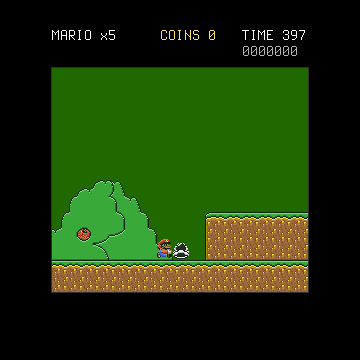
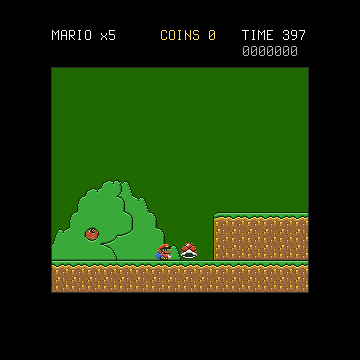
smw: platforms, physics refit on 11 scenarios, enemy palette fix, benchmark overlay
Claude-Session: https://claude.ai/code/session_01819Cst5YoYQmWbqZtMgsvj

Changed region(s): [[0.1222, 0.4889, 0.8556, 0.825]]

diff --git a/scripts/smw_physics_check.py b/scripts/smw_physics_check.py
@@ -1,23 +1,27 @@
 #!/usr/bin/env python3
-"""Scores the Lua movement against the emulator traces.
+"""Scores the Lua movement against the emulator traces, and fits its constants.
 
-    python3 scripts/smw_physics_check.py TRACE_DIR [--quiet]
+    python3 scripts/smw_physics_check.py TRACE_DIR [SCENARIO]          # the table (SCENARIO: side by side)
+    python3 scripts/smw_physics_check.py TRACE_DIR --fit NAME[,NAME]   # coordinate descent on Phys.NAME
 
 Builds a cartridge from carts/smw/src/physics.lua and tests/smw/trace_test.lua, runs it in
-bmhost (make build/host/bmhost-bin first) and prints, per script, the mean and worst error of
-x, y and the two speeds against the CSV files of scripts/smw_trace.py."""
-import csv, os, subprocess, sys, tempfile
+bmhost (make build/host/bmhost-bin first) and compares x, y and both speeds with the CSV
+files of scripts/smw_trace.py. The scenarios are in tests/smw/trace_scripts.json. A scenario
+is cut where the emulator run meets an enemy (LIMIT). --fit prints the constants it found."""
+import csv, json, os, subprocess, sys, tempfile
 ROOT = os.path.dirname(os.path.dirname(os.path.abspath(__file__)))
+LIMIT = {"runjump": 164, "airturn": 85}       # frames before Mario meets something the test does not have
 
 
-def main():
-    if len(sys.argv) < 2:
-        sys.exit(__doc__)
-    ref = sys.argv[1]
+def run_sim(overrides=None):
     tmp = tempfile.mkdtemp()
+    scripts = json.load(open(ROOT + "/tests/smw/trace_scripts.json"))
+    table = "local SCRIPTS = {\n" + "".join("  { %s, { %s } },\n" % (
+        json.dumps(n), ", ".join("{ %d, %s }" % (f, json.dumps(k)) for f, k in segs)) for n, segs in scripts.items()) + "}\n"
+    pre = "".join("Phys.%s = %r\n" % (k, v) for k, v in (overrides or {}).items())
     lua = os.path.join(tmp, "main.lua")
-    open(lua, "w").write(open(ROOT + "/carts/smw/src/physics.lua").read() + "\n" +
-                         open(ROOT + "/tests/smw/trace_test.lua").read())
+    open(lua, "w").write(open(ROOT + "/carts/smw/src/physics.lua").read() + "\n" + pre +
+                         open(ROOT + "/tests/smw/trace_test.lua").read().replace("--SCRIPTS--", table))
     cart = os.path.join(tmp, "t.bm")
     subprocess.run([sys.executable, ROOT + "/scripts/mkbm.py", "-o", cart, "--lua", lua, "--title", "t"],
                    check=True, capture_output=True)
@@ -27,8 +31,53 @@ def main():
         if "TRACE " in line:
             p = line[line.index("TRACE ") + 6:].split()
             got.setdefault(p[0], []).append([float(v) for v in p[2:6]] + [float(p[6])])
+    return got, list(scripts)
+
+
+def errors(got, ref, name):
+    rows = list(csv.DictReader(open("%s/trace_%s.csv" % (ref, name))))[:LIMIT.get(name, 10 ** 9)]
+    g = got.get(name, [])
+    return [[abs(g[i][0] - float(r["x"])), abs(g[i][1] - float(r["y"])), abs(g[i][2] - float(r["vx"])),
+             abs(g[i][3] - float(r["vy"])) if r["air"] != "0" else 0.0] for i, r in enumerate(rows) if i < len(g)]
+
+
+def loss(got, ref, names):
+    total = 0.0
+    for n in names:
+        e = errors(got, ref, n)
+        if e:
+            total += sum(0.5 * a[0] + a[1] + a[2] + a[3] for a in e) / len(e)
+    return total
+
+
+def main():
+    if len(sys.argv) < 2:
+        sys.exit(__doc__)
+    ref = sys.argv[1]
+    got, names = run_sim()
+    if "--fit" in sys.argv:
+        params = sys.argv[sys.argv.index("--fit") + 1].split(",")
+        src = open(ROOT + "/carts/smw/src/physics.lua").read()
+        cur = {}
+        for p in params:
+            line = [l for l in src.splitlines() if l.strip().startswith(p + " =")][0]
+            cur[p] = float(line.split("=")[1].split(",")[0])
+        best = loss(got, ref, names)
+        print("start", round(best, 3), cur)
+        for rnd in range(3):
+            step = 0.1 / (rnd + 1)
+            for p in params:
+                for f in (1 - step, 1 + step):
+                    trial = dict(cur)
+                    trial[p] = round(cur[p] * f, 3)
+                    l = loss(run_sim(trial)[0], ref, names)
+                    if l < best - 1e-6:
+                        best, cur = l, trial
+            print("round", rnd, round(best, 3), cur)
+        return
     show = sys.argv[2] if len(sys.argv) > 2 else None
-    for name in ("walk", "run", "jump", "runjump", "turn"):
+    tot = 0
+    for name in names:
         rows = list(csv.DictReader(open("%s/trace_%s.csv" % (ref, name))))
         g = got.get(name)
         if not g:
@@ -38,12 +87,12 @@ def main():
                 if i < len(g) and i % 6 == 0:
                     print("%3d %-4s x %4s/%7.1f  y %4s/%6.1f  vx %3s/%6.1f  vy %4s/%6.1f  pm %3s/%5.1f" % (
                         i, r["keys"], r["x"], g[i][0], r["y"], g[i][1], r["vx"], g[i][2], r["vy"], g[i][3], r["pmeter"], g[i][4]))
-        err = [[abs(g[i][0] - float(r["x"])), abs(g[i][1] - float(r["y"])), abs(g[i][2] - float(r["vx"])),
-                abs(g[i][3] - float(r["vy"])) if r["air"] != "0" else 0.0]
-               for i, r in enumerate(rows) if i < len(g)]
+        err = errors(got, ref, name)
         n = len(err)
+        tot += sum(0.5 * a[0] + a[1] + a[2] + a[3] for a in err) / n
         print("%-8s mean err x %.2f y %.2f vx %.2f vy %.2f | worst x %.1f y %.1f vx %.1f vy %.1f" % (
             (name,) + tuple(sum(e[j] for e in err) / n for j in range(4)) + tuple(max(e[j] for e in err) for j in range(4))))
+    print("loss", round(tot, 3))
 
 
 if __name__ == "__main__":

diff --git a/scripts/smw_solid.py b/scripts/smw_solid.py
@@ -1,0 +1,68 @@
+#!/usr/bin/env python3
+"""Finds which Map16 tiles of the first level are solid, by testing them in the emulator.
+
+    python3 scripts/smw_solid.py ROM.sfc OUTDIR
+
+For each Map16 number in the level it finds a cell with air above and one with air to its left,
+puts Mario there and watches: from above, does he stand on it (his Y stays)? from the left,
+does he stop (his X stays)? Writes solid.json {map16: {top, side, cells}} and prints a table.
+Tile 0x25 is the empty cell."""
+import json, os, sys
+sys.path.insert(0, os.path.dirname(os.path.abspath(__file__)))
+from smw_capture import *
+
+
+def main():
+    if len(sys.argv) < 3:
+        sys.exit(__doc__)
+    ex = sys.argv[2]
+    level = json.load(open(ex + "/level.json"))
+    g = Game(sys.argv[1])
+    g.to_first_level()
+    base = g.e.get_state()
+    H, W = len(level), len(level[0])
+    ids = sorted(k for k in {k for r in level for k in r} if k >= 0x100)
+    free = lambda t: t < 0x100                   # the tiles below 0x100 were tested: none is solid
+    res = {}
+    for k in ids:
+        out = {"top": None, "side": None, "bottom": None}
+        for cy in range(2, H - 3):
+            for cx in range(3, W - 3):
+                if level[cy][cx] != k:
+                    continue
+                if out["top"] is None and free(level[cy - 1][cx]) and free(level[cy - 2][cx]):
+                    g.e.set_state(base)
+                    y0 = cy * 16 - 32
+                    g.poke({0x94: (cx * 16) & 255, 0x95: (cx * 16) >> 8, 0x96: y0 & 255, 0x97: y0 >> 8, 0x7D: 0, 0x7B: 0, 0x72: 0})
+                    g.step(n=10)
+                    w = g.wram()
+                    y = w[0x96] | w[0x97] << 8
+                    out["top"] = abs(y - y0) <= 1
+                    out["top_cell"] = [cx, cy]
+                if out["side"] is None and free(level[cy][cx - 1]) and free(level[cy - 1][cx - 1]) and free(level[cy][cx - 2]):
+                    g.e.set_state(base)
+                    x0 = cx * 16 - 16
+                    g.poke({0x94: x0 & 255, 0x95: x0 >> 8, 0x96: (cy * 16 - 16) & 255, 0x97: (cy * 16 - 16) >> 8, 0x7D: 0, 0x7B: 0x20, 0x72: 0})
+                    g.step([RIGHT], 10)
+                    w = g.wram()
+                    x = w[0x94] | w[0x95] << 8
+                    out["side"] = x < cx * 16 - 10
+                    out["side_cell"] = [cx, cy]
+                if out["bottom"] is None and free(level[cy + 1][cx]) and free(level[cy + 2][cx]) and free(level[cy + 3][cx]):
+                    g.e.set_state(base)
+                    y0 = cy * 16 + 2                       # his head just under the tile, moving up
+                    g.poke({0x94: (cx * 16) & 255, 0x95: (cx * 16) >> 8, 0x96: y0 & 255, 0x97: y0 >> 8, 0x7D: 0xB0, 0x7B: 0, 0x72: 0x0B})
+                    g.step(n=8)
+                    w = g.wram()
+                    y = w[0x96] | w[0x97] << 8
+                    out["bottom"] = y > cy * 16 - 8              # he was stopped under it (a head bump), not carried through
+                    out["bottom_cell"] = [cx, cy]
+            if all(out[q] is not None for q in ("top", "side", "bottom")):
+                break
+        res["%03X" % k] = out
+        print("%03X top %-5s side %-5s bottom %-5s" % (k, out["top"], out["side"], out["bottom"]))
+    json.dump(res, open(ex + "/solid.json", "w"), indent=1)
+
+
+if __name__ == "__main__":
+    main()

diff --git a/carts/smw/build/build.py b/carts/smw/build/build.py
@@ -10,9 +10,16 @@ import json, os, subprocess, sys
 ROOT = os.path.dirname(os.path.dirname(os.path.dirname(os.path.dirname(os.path.abspath(__file__)))))
 
 
-def solid(k):
-    """Map16 numbers the player stands on or bumps into (first level only, from the tile graphics)."""
-    return 0x100 <= k < 0x1C0 or k in (0x03F, 0x040, 0x041)
+# Tested in the emulator (scripts/smw_solid.py): the ledge tiles are platforms (a floor from above only,
+# Mario goes through them from below and from the side), the blocks and pipes are solid on every side,
+# the tiles under 0x100 (hills, bushes, the goal posts) are scenery.
+PLATFORM = {0x100, 0x101, 0x102, 0x103, 0x104, 0x106}
+FULL = {0x11A, 0x11E, 0x124, 0x126, 0x132, 0x133, 0x134, 0x135, 0x136, 0x137, 0x138, 0x145, 0x146, 0x148, 0x14B, 0x14C}
+
+
+def kind(k):
+    """0 scenery, 1 solid, 2 platform: the flag bit of the collision layer's marker cell."""
+    return 1 if k in FULL else (2 if k in PLATFORM else 0)
 
 
 def backdrop(ex):
@@ -107,7 +114,7 @@ def main():
     level = json.load(open(ex + "/level.json"))
     meta = json.load(open(ex + "/meta.json"))
     defs[0x025] = (0, 0, 0, 0)          # SMW draws the empty cell with a tile the PPU hides
-    col = meta["cells"] + 1
+    col = meta["cells"] + 1             # two marker cells after the tiles: col (solid, flag 1), col + 1 (platform, flag 2)
     main_rows, col_rows = [], []
     for row in level:
         top, bot, ctop, cbot = [], [], [], []
@@ -115,14 +122,14 @@ def main():
             tl, bl, tr, br = defs.get(k, (0, 0, 0, 0))
             top += [tl, tr]
             bot += [bl, br]
-            c = col if solid(k) else 0
+            c = (0, col, col + 1)[kind(k)]
             ctop += [c, c]
             cbot += [c, c]
         main_rows += [top, bot]
         col_rows += [ctop, cbot]
     for name, rows in (("map_main.csv", main_rows), ("map_col.csv", col_rows)):
         open(out + "/" + name, "w").write("\n".join(",".join(map(str, r)) for r in rows) + "\n")
-    open(out + "/flags.csv", "w").write("%d=1\n" % col)
+    open(out + "/flags.csv", "w").write("%d=1\n%d=2\n" % (col, col + 1))
     sheet_png = out + "/sheet.png"
     poses_lua = pack_poses(ex, ex + "/sheet.png", sheet_png)
     lua = poses_lua + block_data(defs, level) + open(ROOT + "/carts/smw/src/physics.lua").read() + "\n" + open(ROOT + "/carts/smw/src/game.lua").read()

diff --git a/scripts/smw_enemies.py b/scripts/smw_enemies.py
@@ -63,14 +63,19 @@ def main():
             if name in pics:
                 pics[name]["count"] += 1
                 continue
-            if shot is None:
-                shot = g.e.get_screen()
-            pics[name] = {"id": w[0x9E + i], "status": w[0x14C8 + i], "count": 1, "px": px, "sx": sx - cx, "sy": sy - cy}
+            mirror = w[0x703:0x703 + 512]
+            col = {}
             for (qx, qy), (c, p) in px.items():
-                if 0 <= qx < 256 and 0 <= qy < 224:
-                    rgb = tuple(int(q) for q in shot[qy][qx])
-                    palette.setdefault((p, c), {}).setdefault(rgb, 0)
-                    palette[(p, c)][rgb] += 1
+                if p >= 1:                  # sprite rows 1-7 are in the game's palette copy; row 0 is Mario's
+                    k = 0x100 + (p * 16 + c) * 2
+                    r = mirror[k] | mirror[k + 1] << 8
+                    col[(p, c)] = ((r & 31) * 255 // 31, ((r >> 5) & 31) * 255 // 31, ((r >> 10) & 31) * 255 // 31)
+                elif 0 <= qx < 256 and 0 <= qy < 224:
+                    if shot is None:
+                        shot = g.e.get_screen()
+                    palette.setdefault((p, c), {}).setdefault(tuple(int(q) for q in shot[qy][qx]), 0)
+                    palette[(p, c)][tuple(int(q) for q in shot[qy][qx])] += 1
+            pics[name] = {"id": w[0x9E + i], "status": w[0x14C8 + i], "count": 1, "px": px, "sx": sx - cx, "sy": sy - cy, "col": col}
     pal = {k: max(d, key=d.get) for k, d in palette.items()}
     meta = {}
     for name, d in pics.items():
@@ -78,7 +83,7 @@ def main():
         x0, y0 = min(xs), min(ys)
         im = Image.new("RGBA", (max(xs) - x0 + 1, max(ys) - y0 + 1), (0, 0, 0, 0))
         for (qx, qy), (c, p) in d["px"].items():
-            r, gg, b = pal.get((p, c), (255, 0, 255))
+            r, gg, b = d["col"].get((p, c)) or pal.get((p, c), (255, 0, 255))
             im.putpixel((qx - x0, qy - y0), (r, gg, b, 255))
         fn = "pic_%s.png" % name
         im.save(out + "/" + fn)

diff --git a/carts/smw/guide/build.py b/carts/smw/guide/build.py
@@ -123,7 +123,7 @@ def main():
         for half in (0, 1):
             crow = []
             for k in row:
-                c = col_n if real.solid(k) else 0
+                c = (0, col_n, col_n + 1)[real.kind(k)]
                 crow += [c, c]
             col_rows.append(crow)
     defs_new = {}                       # the redrawn cells of the used block and the coin, read from the level
@@ -132,14 +132,14 @@ def main():
             if k not in defs_new:
                 defs_new[k] = (main_rows[2 * y][2 * x], main_rows[2 * y + 1][2 * x], main_rows[2 * y][2 * x + 1],
                                main_rows[2 * y + 1][2 * x + 1])
-    n_cells = len(cell_list) + 2
+    n_cells = len(cell_list) + 3
     sh = Image.new("RGBA", (128, ((n_cells + 15) // 16) * 8), (0, 0, 0, 0))
     for i, im in enumerate(cell_list, 1):
         sh.paste(im, ((i % 16) * 8, (i // 16) * 8))
     sh.save(out + "/tiles.png")
     for name, rows in (("map_main.csv", main_rows), ("map_col.csv", col_rows)):
         open(out + "/" + name, "w").write("\n".join(",".join(map(str, r)) for r in rows) + "\n")
-    open(out + "/flags.csv", "w").write("%d=1\n" % col_n)
+    open(out + "/flags.csv", "w").write("%d=1\n%d=2\n" % (col_n, col_n + 1))
     poses_lua = real.pack_poses(ex, out + "/tiles.png", out + "/sheet.png", restyle=restyle)
     lua = poses_lua + real.block_data(defs_new, level) + open(ROOT + "/carts/smw/src/physics.lua").read() + "\n" + open(ROOT + "/carts/smw/src/game.lua").read()
     lua = lua.replace("local backdrop = 0xFF0000", "local backdrop = 0x%06X" % real.backdrop(ex))

diff --git a/scripts/smw_trace.py b/scripts/smw_trace.py
@@ -8,19 +8,13 @@ then plays fixed input scripts
 and writes one CSV per script to OUTDIR: frame, buttons, x, y, x speed, y speed, in-air,
 facing, P-meter. The CSV is the reference the .bme engine is tested against.
 RAM: $94/$96 position, $7B/$7D speed (signed), $72 in air, $76 facing, $13E4 P-meter."""
-import os, sys
+import json, os, sys
 sys.path.insert(0, os.path.dirname(os.path.abspath(__file__)))
 from smw_capture import *
 
 H = {"B": B, "Y": Y, "L": LEFT, "R": RIGHT, "A": A, "U": UP, "D": DOWN}
-# name -> list of (frames, buttons) segments
-SCRIPTS = {
-    "walk":   [(20, ""), (90, "R"), (40, "")],
-    "run":    [(20, ""), (150, "RY"), (60, "")],
-    "jump":   [(20, ""), (50, "B"), (60, "")],
-    "runjump": [(20, ""), (100, "RY"), (60, "RYB"), (60, "RY"), (60, "")],
-    "turn":   [(20, ""), (60, "R"), (40, "L"), (30, "")],
-}
+# name -> list of (frames, buttons) segments, from tests/smw/trace_scripts.json (the Lua test reads the same file)
+SCRIPTS = json.load(open(os.path.join(os.path.dirname(os.path.abspath(__file__)), "..", "tests", "smw", "trace_scripts.json")))
 
 
 def s8(v):

diff --git a/docs/progress/smw.md b/docs/progress/smw.md
@@ -25,6 +25,7 @@ the finished cartridge stay on the user's machine and SD card.
 - `scripts/smw_goal.py`: the goal tape picture. Measured: the tape (sprite 0x7B at x 4832) goes up
   one pixel a tick from y 368 to 244 and back (248 ticks). Touching it starts the end: Mario walks right.
   The clock drops one every 35 ticks from 400. Mario starts with 5 lives.
+- `scripts/smw_solid.py`: tests every Map16 number for solidity from above, the side, and below.
 - `carts/smw/src/physics.lua`: movement at 50 Hz ticks. `scripts/smw_physics_check.py`
   scores it against the traces in `bmhost`. First jump: error under 3 pixels.
 - `carts/smw/src/game.lua` and `carts/smw/build/build.py`: the playable level, 360x360 `.b16`
@@ -42,14 +43,18 @@ the finished cartridge stay on the user's machine and SD card.
 ## Open work
 
 - Test start: `SMW_START=x,y python3 carts/smw/build/build.py` starts Mario elsewhere.
-- Solidity: the table is a guess (`0x100`-`0x1BF`, dirt `0x3F`-`0x41`). Read the real
-  "acts like" table from the ROM.
+- Solidity: tested in the emulator for the first level (`scripts/smw_solid.py`): ledges are
+  platforms (a floor from above only), blocks and pipes are solid, hills and posts are scenery.
+  For other levels read the "acts like" table from the ROM.
 - Mario poses: small Mario only. Capture big, fire, cape, Yoshi, swim, climb, death, and the
   walk speed steps. The animation rate is one rule (`anim += speed`, a frame per 122).
 - Background layer 2 (parallax forest): the game uses one colour. The TM mirror poke does not
   hide layers. Read the BG2 tilemap from VRAM or stitch it from frames.
 - Camera: use the SMW scroll rules. Now `x - 108`.
-- Tune the physics: start-up acceleration, air control, P meter decay, terminal speed. Slopes.
+- Physics: 11 scenarios (`tests/smw/trace_scripts.json`) against the emulator, mean position error
+  under 0.6 pixel, worst 2.9 pixels in x and 2.4 in y (`scripts/smw_physics_check.py`; `--fit`
+  refits the constants). The game moves first with the last tick's speed, then changes the speed.
+  Open: slopes, water, ice, the sub-pixel carry of the real engine, spin jump height.
 - Done: question blocks with coins (bump, used tile), coin pickup, coin counter.
 - Items from blocks (egg, 0x79), turn blocks (break when big), Yoshi/dragon coins, score.
 - Done: the goal tape and the course clear banner, 5 lives, the clock, death (hop and fall), game over,
@@ -60,7 +65,9 @@ the finished cartridge stay on the user's machine and SD card.
   places. Bonus by the tape height, the end screen of SMW, the overworld, 1-ups at 100 coins.
 - More levels. Map16 for other tilesets comes from the ROM table at `$0D8000`.
 - Sound: SPC700. Music last.
-- Measure the frame time on the RGB30. The host run takes 0.04 ms a frame.
+- Frame time: Select shows the overlay (ms, fps, Lua KB, instructions) and logs a `bench` line every 5
+  seconds. On the PC the level takes 0.05 ms a frame on average, 1-2 ms at the worst frame (a restart).
+  Run it on the RGB30 and read the log: the number is not known yet.
 - Write the PDF guide (EN and IT, with `bm-manuals`): how the `.bme` is built, which APIs it
   uses, the game structure, and the asset pipeline. Use original diagrams and code excerpts
   and the real screenshots of the user, for personal use. Do not commit that PDF.
